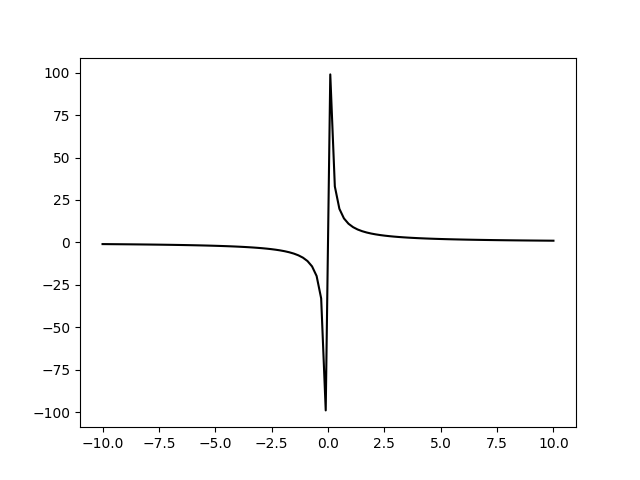
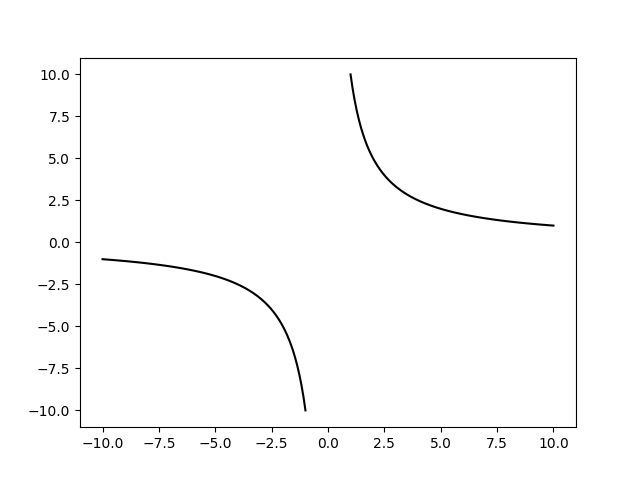
123123

diff --git a/lab_6_task_2.py b/lab_6_task_2.py
@@ -2,18 +2,22 @@ import matplotlib.pyplot as plt
 import numpy as np
 N = 100
 
-def hiperbola(x_min, x_max, N):
-    x = np.linspace(x_min,x_max, N)
+def hiperbola(x_min, x_max,x_min2, x_max2, N):
+    x = np.linspace(x_min, x_max, N)
     k = 10
     y = k / x
 
-
     plt.plot(x, y, color='black')
+    x2 = np.linspace(x_min2, x_max2, N)
+    y = k / x2
+    plt.plot(x2, y, color= 'black')
     # plt.axis('equal') # отключение масштабирования
     plt.savefig('task_2.png')
 
 x_min = -10
-x_max = 10
+x_max = -1
+x_min2 = 1
+x_max2 = 10
 
 if __name__ == '__main__':
-    hiperbola(x_min, x_max , N)
+    hiperbola(x_min, x_max, x_min2, x_max2, N)
